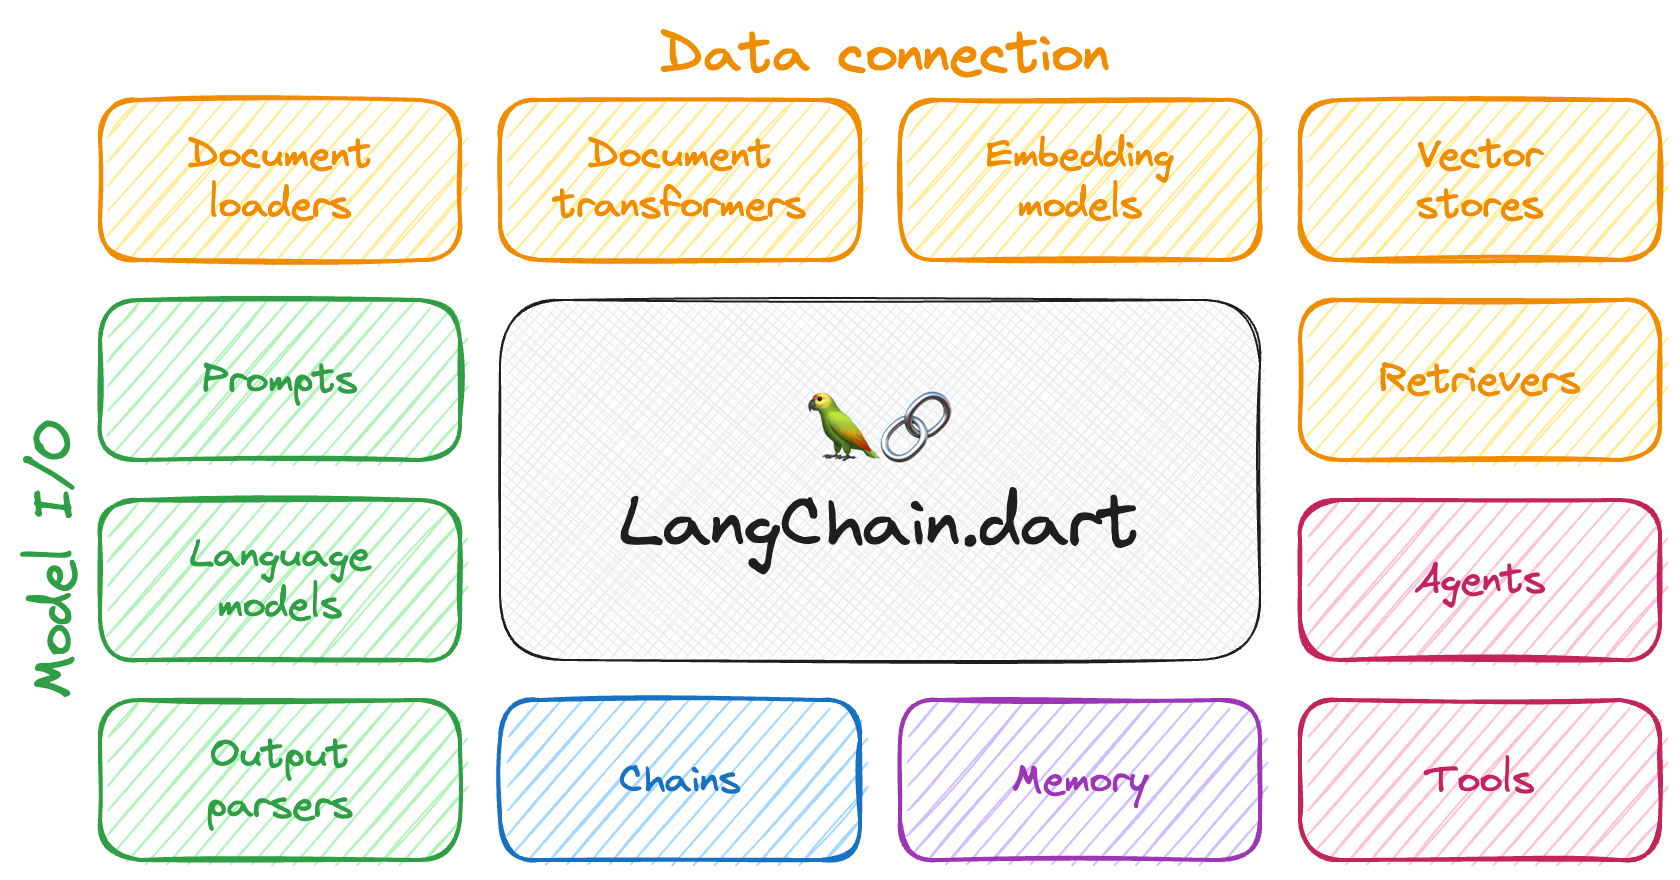
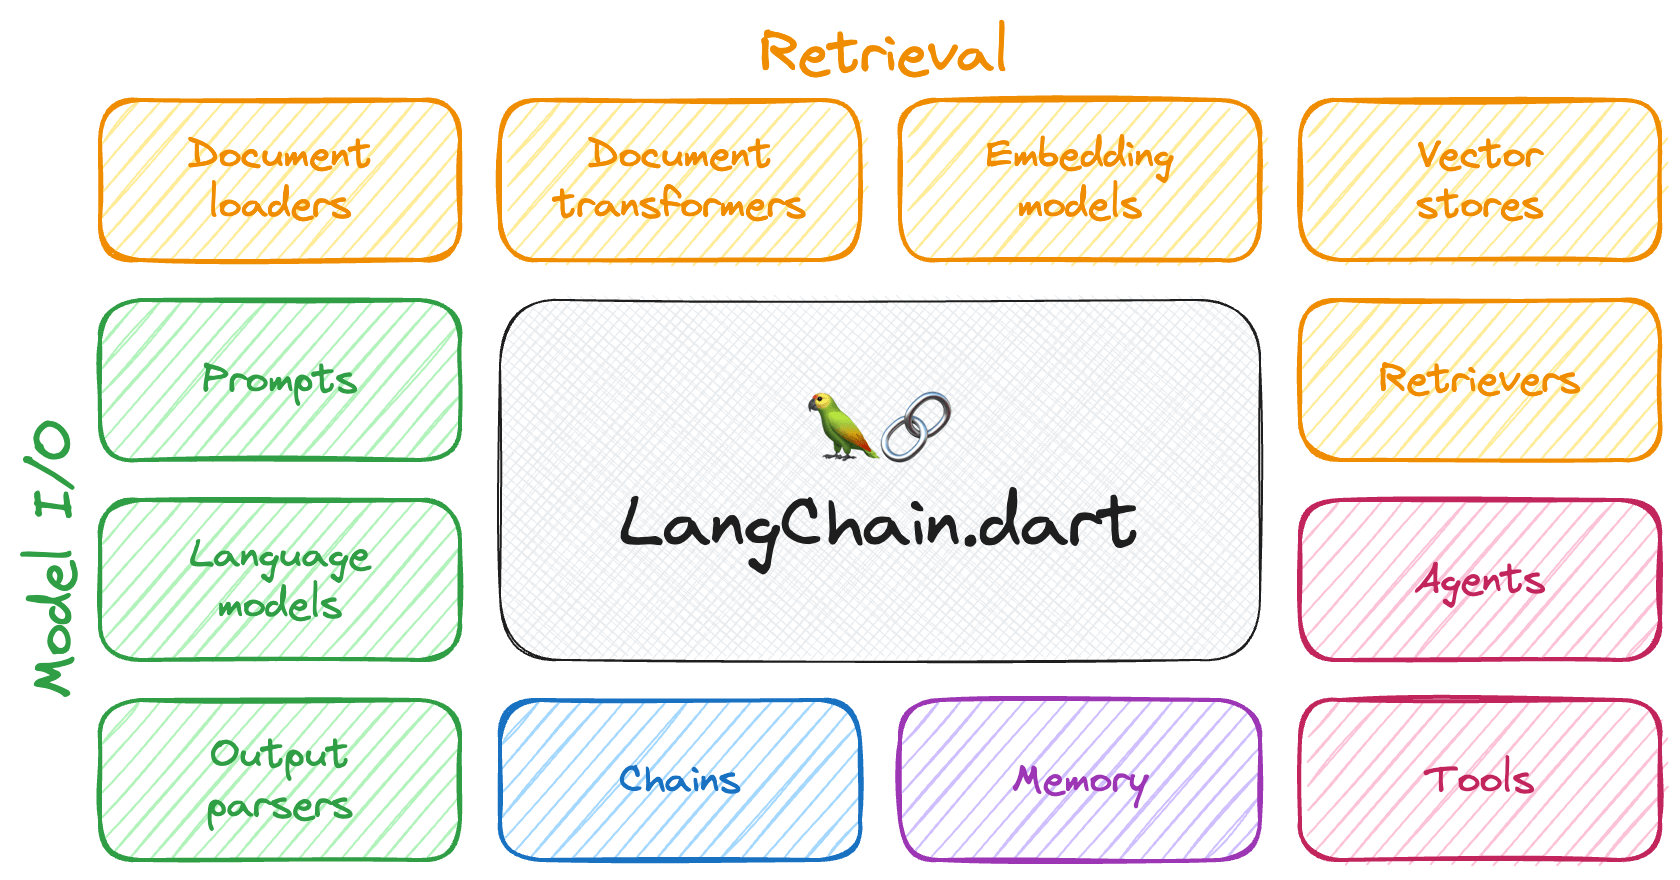
docs: Update docs

diff --git a/README.md b/README.md
@@ -25,8 +25,8 @@ The components can be grouped into a few core modules:
 
 - 📃 **Model I/O:** streamlines the interaction between the model inputs (prompt templates), the
   Language Model (abstracting different providers), and the model output (output parsers).
-- 📚 **Data Connection:** assists in loading user data (document loaders), modifying it (document
-  transformers), storing (via text embedding models and vector stores), and retrieving when needed
+- 📚 **Retrieval:** assists in loading user data (document loaders), modifying it (document
+  transformers and embedding models), storing (vector stores), and retrieving when needed
   (retrievers).
 - 🔗 **Chains:** a way to compose multiple components or other chains into a single pipeline.
 - 🧠 **Memory:** equips chains or agents with both short-term and long-term memory capabilities,
@@ -69,10 +69,11 @@ provided by a separate package.
 The following packages are maintained (and used internally) by LangChain.dart,
 although they can also be used independently:
 
-| Package                                         | Version                                                                                        | Description              | 
-|-------------------------------------------------|------------------------------------------------------------------------------------------------|--------------------------|
-| [chromadb](https://pub.dev/packages/chromadb)   | [![chromadb](https://img.shields.io/pub/v/chromadb.svg)](https://pub.dev/packages/chromadb)    | Chroma DB API client     |
-| [vertex_ai](https://pub.dev/packages/vertex_ai) | [![vertex_ai](https://img.shields.io/pub/v/vertex_ai.svg)](https://pub.dev/packages/vertex_ai) | GCP Vertex AI API client |
+| Package                                             | Version                                                                                              | Description              | 
+|-----------------------------------------------------|------------------------------------------------------------------------------------------------------|--------------------------|
+| [chromadb](https://pub.dev/packages/chromadb)       | [![chromadb](https://img.shields.io/pub/v/chromadb.svg)](https://pub.dev/packages/chromadb)          | Chroma DB API client     |
+| [openai_dart](https://pub.dev/packages/openai_dart) | [![openai_dart](https://img.shields.io/pub/v/openai_dart.svg)](https://pub.dev/packages/openai_dart) | OpenAI API client        |
+| [vertex_ai](https://pub.dev/packages/vertex_ai)     | [![vertex_ai](https://img.shields.io/pub/v/vertex_ai.svg)](https://pub.dev/packages/vertex_ai)       | GCP Vertex AI API client |
 
 ## Getting started
 
@@ -108,16 +109,16 @@ final model = ChatOpenAI(apiKey: openaiApiKey);
 const stringOutputParser = StringOutputParser();
 
 final chain = Runnable.fromMap({
-      'city': promptTemplate1 | model | stringOutputParser,
-      'language': Runnable.getItemFromMap('language'),
-    }) |
-    promptTemplate2 |
-    model |
-    stringOutputParser;
+  'city': promptTemplate1 | model | stringOutputParser,
+  'language': Runnable.getItemFromMap('language'),
+}) |
+promptTemplate2 |
+model |
+stringOutputParser;
 
 final res = await chain.invoke({
-  'person': 'Rafael Nadal',
-  'language': 'Spanish',
+'person': 'Rafael Nadal',
+'language': 'Spanish',
 });
 print(res);
 // La ciudad de Manacor se encuentra en España.
@@ -150,8 +151,8 @@ your first contribution in no time!
 
 ## Related projects
 
-- [LangChain](https://github.com/hwchase17/langchain): The original Python LangChain project.
-- [LangChain.js](https://github.com/hwchase17/langchainjs): A JavaScript port of LangChain.
+- [LangChain](https://github.com/langchain-ai/langchain): The original Python LangChain project.
+- [LangChain.js](https://github.com/langchain-ai/langchainjs): A JavaScript port of LangChain.
 - [LangChain.go](https://github.com/tmc/langchaingo): A Go port of LangChain.
 - [LangChain.rb](https://github.com/andreibondarev/langchainrb): A Ruby port of LangChain.
 

diff --git a/packages/langchain/README.md b/packages/langchain/README.md
@@ -25,8 +25,8 @@ The components can be grouped into a few core modules:
 
 - 📃 **Model I/O:** streamlines the interaction between the model inputs (prompt templates), the
   Language Model (abstracting different providers), and the model output (output parsers).
-- 📚 **Data Connection:** assists in loading user data (document loaders), modifying it (document
-  transformers), storing (via text embedding models and vector stores), and retrieving when needed
+- 📚 **Retrieval:** assists in loading user data (document loaders), modifying it (document
+  transformers and embedding models), storing (vector stores), and retrieving when needed
   (retrievers).
 - 🔗 **Chains:** a way to compose multiple components or other chains into a single pipeline.
 - 🧠 **Memory:** equips chains or agents with both short-term and long-term memory capabilities,
@@ -69,10 +69,11 @@ provided by a separate package.
 The following packages are maintained (and used internally) by LangChain.dart,
 although they can also be used independently:
 
-| Package                                         | Version                                                                                        | Description              | 
-|-------------------------------------------------|------------------------------------------------------------------------------------------------|--------------------------|
-| [chromadb](https://pub.dev/packages/chromadb)   | [![chromadb](https://img.shields.io/pub/v/chromadb.svg)](https://pub.dev/packages/chromadb)    | Chroma DB API client     |
-| [vertex_ai](https://pub.dev/packages/vertex_ai) | [![vertex_ai](https://img.shields.io/pub/v/vertex_ai.svg)](https://pub.dev/packages/vertex_ai) | GCP Vertex AI API client |
+| Package                                             | Version                                                                                              | Description              | 
+|-----------------------------------------------------|------------------------------------------------------------------------------------------------------|--------------------------|
+| [chromadb](https://pub.dev/packages/chromadb)       | [![chromadb](https://img.shields.io/pub/v/chromadb.svg)](https://pub.dev/packages/chromadb)          | Chroma DB API client     |
+| [openai_dart](https://pub.dev/packages/openai_dart) | [![openai_dart](https://img.shields.io/pub/v/openai_dart.svg)](https://pub.dev/packages/openai_dart) | OpenAI API client        |
+| [vertex_ai](https://pub.dev/packages/vertex_ai)     | [![vertex_ai](https://img.shields.io/pub/v/vertex_ai.svg)](https://pub.dev/packages/vertex_ai)       | GCP Vertex AI API client |
 
 ## Getting started
 
